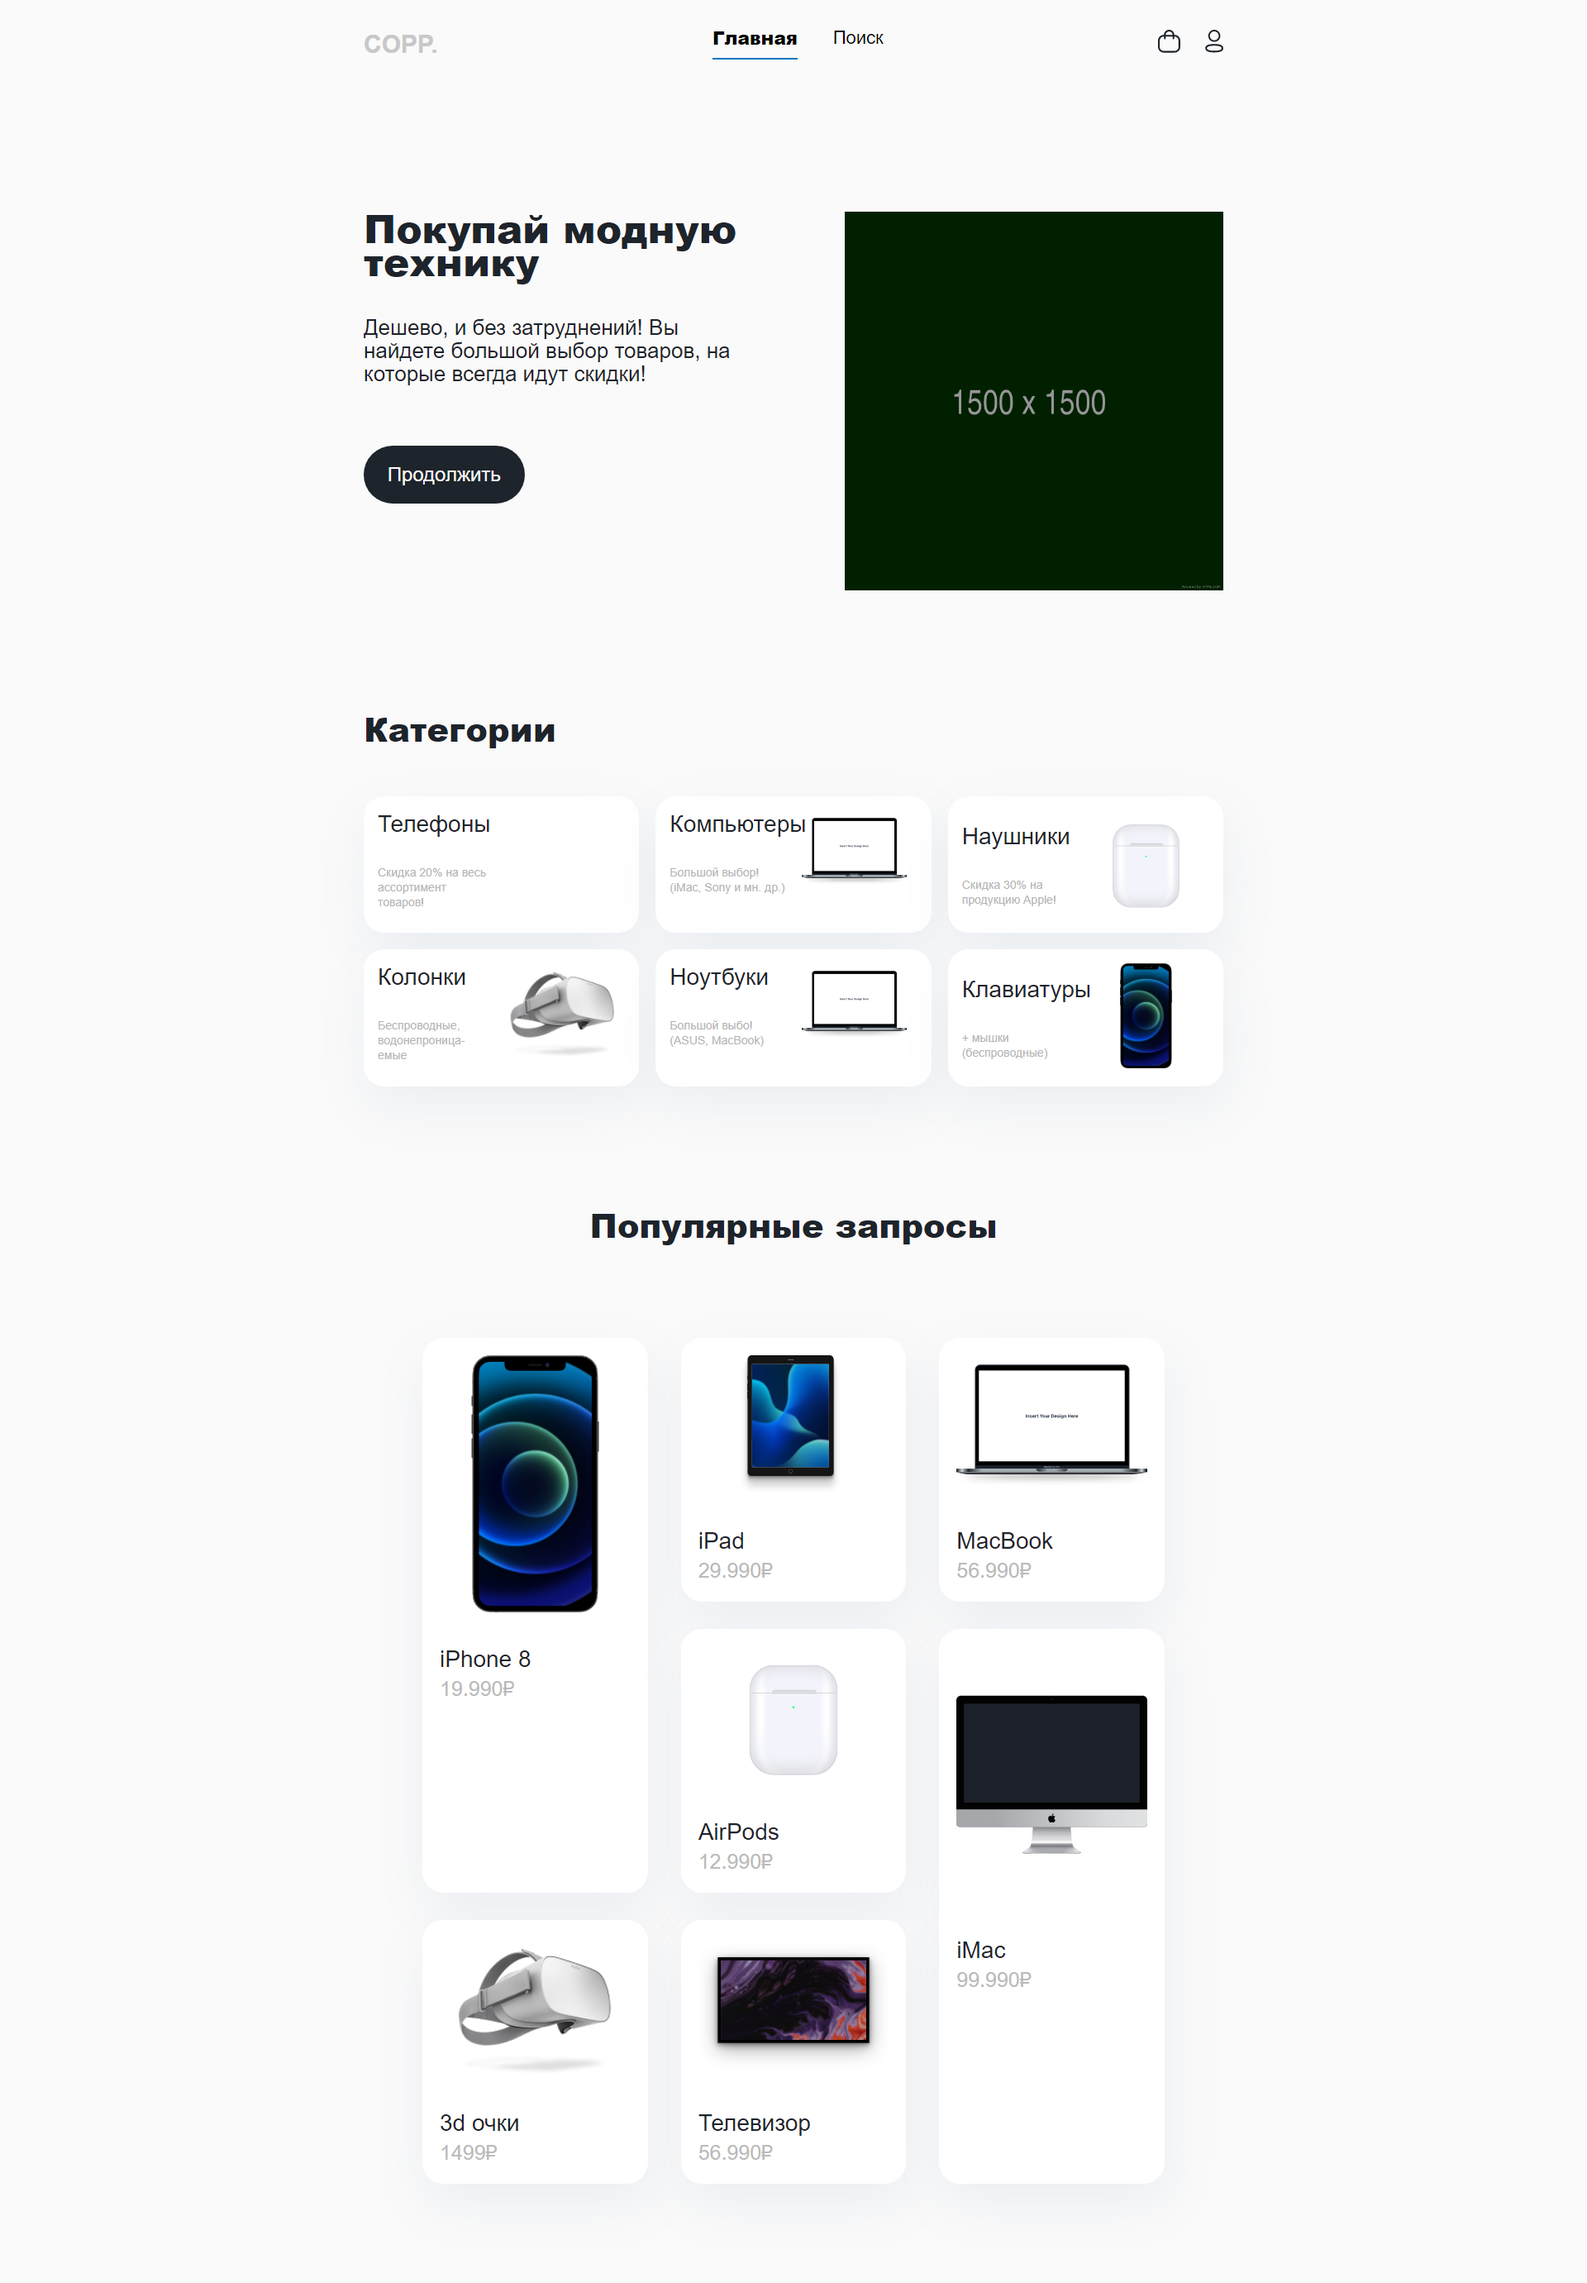
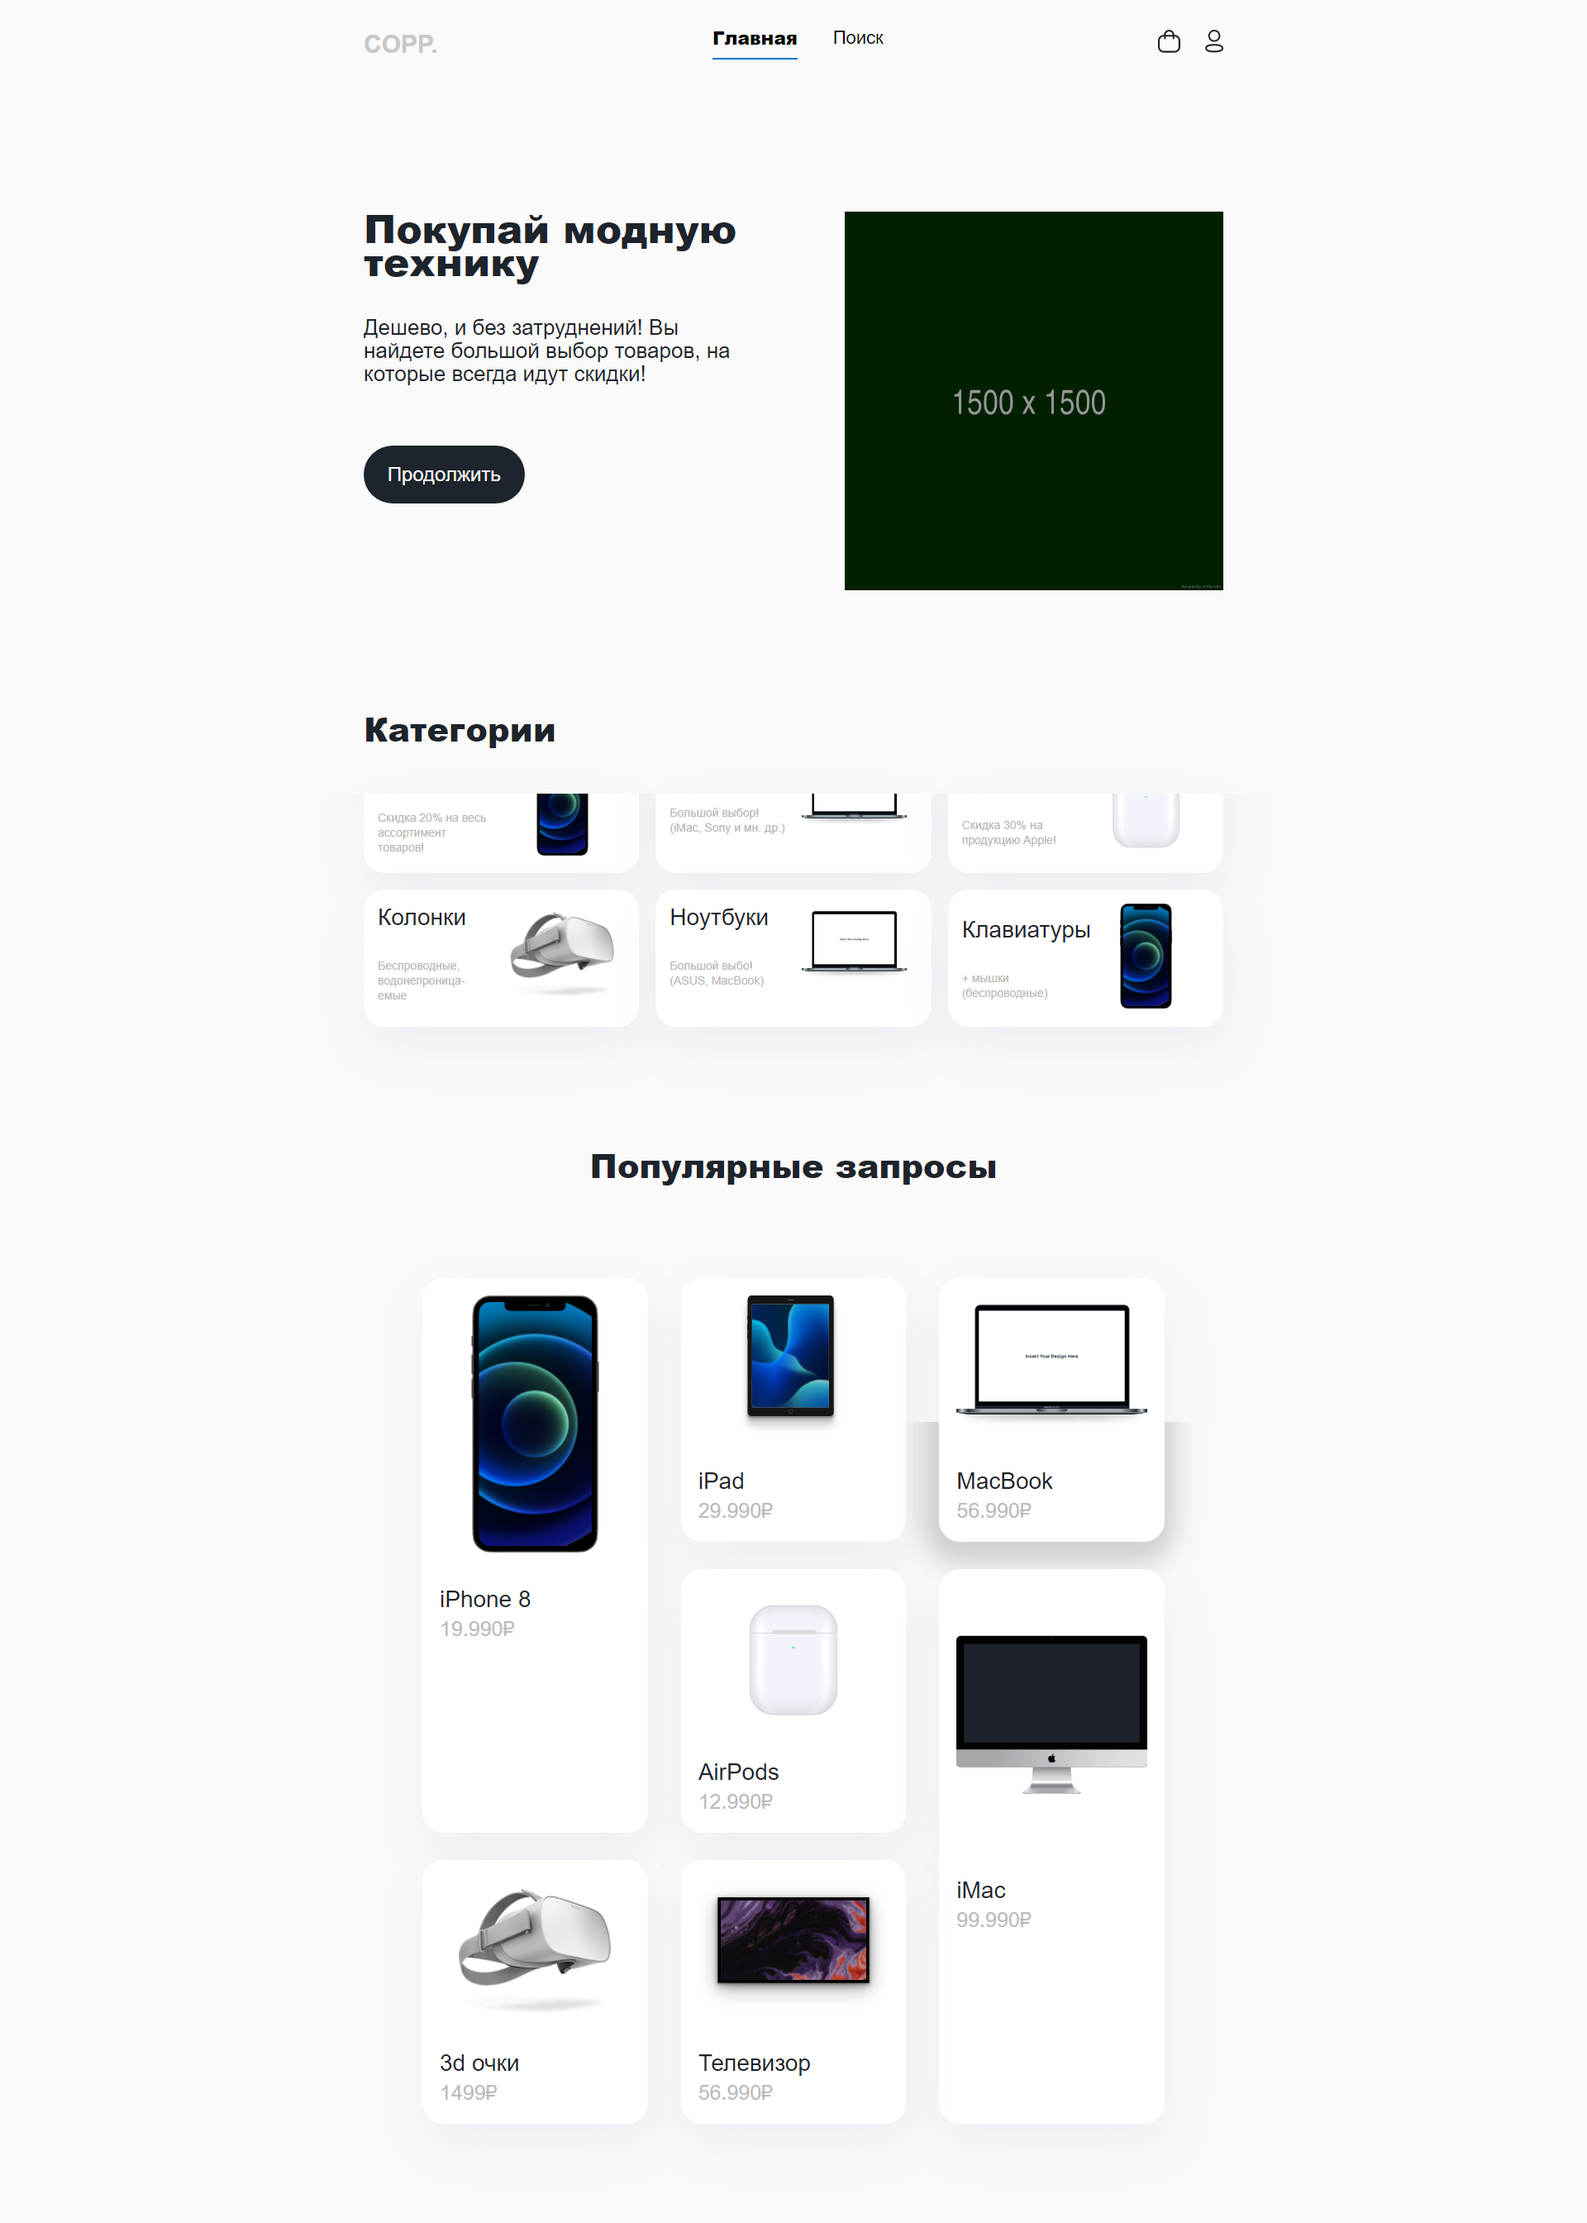
Master

diff --git a/src/blocks/modules/front-catalog/front-catalog.html b/src/blocks/modules/front-catalog/front-catalog.html
@@ -10,7 +10,7 @@
                             <p class="catalog-item__text">Скидка 20% на весь ассортимент товаров!</p>
                         </div>
                         <div class="catalog-item__col">
-                            <!-- <img class="img img-catalog" alt="" src="../../../img/svg/iphone.svg"> -->
+                            <img class="img img-catalog" alt="" src="../../../img/svg/iphone.svg">
                         </div>
                     </div>
                 </a>
